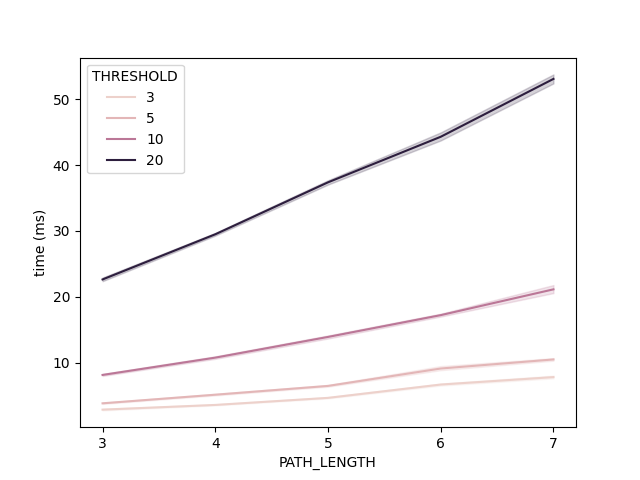
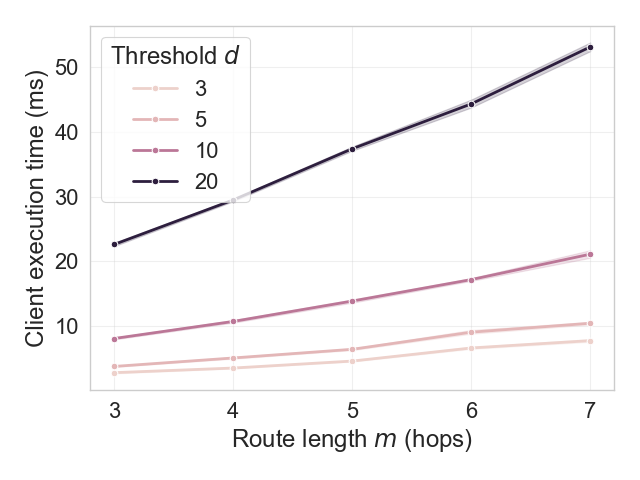
benchmark tables to figures 2

diff --git a/report/Texts/6.Implementation.tex b/report/Texts/6.Implementation.tex
@@ -8,6 +8,7 @@ The benchmark considers a network of 100 nodes, 50 STTPs, and 40 clients, where 
 We vary the path length $m \in \{3,4,5,6,7\}$ and the reconstruction threshold $d \in \{3,5,10,20\}$, resulting in 20 benchmark configurations. 
 Network latency and communication overhead are intentionally excluded so that the measurements isolate the computational cost of the protocol.
 
+\begin{comment}
 \begin{table}[t]
 \centering
 \caption{Client-side execution time (ms) of DSphinx, including packet construction and decentralized route sampling, under varying path length ($m$) and reconstruction threshold ($d$).}
@@ -26,19 +27,37 @@ Network latency and communication overhead are intentionally excluded so that th
 \bottomrule
 \end{tabular}
 \end{table}
+\end{comment}
 
-\todo[inline]{Figure instead of table (and box plot for table 2) + adapt  text accordingly}
+\begin{figure}[t]
+    \centering
+    \begin{subfigure}{0.49\linewidth}
+        \centering
+        \includegraphics[width=\linewidth]{Images/path_length.png}
+    \end{subfigure}
+    \hfill
+    \begin{subfigure}{0.49\linewidth}
+        \centering
+        \includegraphics[width=\linewidth]{Images/threshold.png}
+    \end{subfigure}
+    \caption{Client-side execution time (ms) of DSphinx, including packet construction and decentralized route sampling, under varying path length ($m$) and reconstruction threshold ($d$).}
+    \label{fig:scalability}
+\end{figure}
 
-Table~\ref{tab:scalability} reports the total client-side runtime required for decentralized route sampling and packet construction. 
-Depending on the parameter configuration, the runtime ranges from 2.84 ms to 53.12 ms, compared with approximately 0.5-2 ms for the original Sphinx. 
-As expected, the execution time increases with both the path length and the reconstruction threshold.
+Figure~\ref{fig:scalability} reports the total client-side runtime required for packet construction and decentralized route sampling. 
+Depending on the parameter configuration, the runtime ranges from approximately 3 ms to 50 ms, compared to 0.5--2 ms for the original Sphinx.
+The measured runtimes are consistent with the theoretical complexity of the protocol. 
+In particular, the dominant cost arises from decentralized route sampling, whose threshold reconstruction requires $\mathcal{O}(d \log d)$ operations for each of the $m$ routing hops, yielding an overall client-side complexity of $\mathcal{O}(md \log d)$. 
+This trend is clearly reflected in Figure~\ref{fig:scalability}, where increasing either the path length or the reconstruction threshold results in an approximately linear increase in execution time.
 
-Table~\ref{tab:runtime} summarizes the execution time of the main protocol phases. 
-Client-side execution is dominated by decentralized route sampling, which accounts for approximately 86\% of the total runtime, whereas DSphinx packet construction contributes only about 14\%. 
-On the network side, packet processing remains lightweight, requiring between 0.49 ms and 0.80 ms per packet (approximately 0.15 ms for Sphinx). while the setup phase is executed only once during initialization. 
-Similarly, STTPs introduce negligible computational cost, requiring at most 0.007 ms to process a route-sampling request. 
-Their setup phase (network node and STTP) is expensive but is performed only once.
+Figure~\ref{fig:runtime} summarizes the execution times of the main protocol phases and illustrates their dependence on the path length ($m$) or reconstruction threshold ($d$).
+On the client side, execution is dominated by decentralized route sampling, which accounts for approximately 86\% (approximately 2--50 ms) of the total runtime, whereas DSphinx packet construction contributes only the remaining 14\% (approximately 0.5--4.5 ms). 
+On the network side, packet processing remains lightweight, requiring only 0.5--0.8 ms per packet, compared with approximately 0.15 ms for Sphinx. 
+Although the node setup phase is the most computationally expensive operation (approximately 15--100 ms), it is performed only once during initialization.
+Similarly, STTPs introduce only negligible computational overhead. 
+Processing a route-sampling request requires approximately 0.3--0.7 ms, while the one-time setup phase completes in approximately 0.3 ms.
 
+\begin{comment}
 \begin{table}[t]
 \centering
 \caption{Observed execution times (ms) for DSphinx client, node, and STTP operations, including setup and runtime phases.}
@@ -84,17 +103,21 @@ ccc
 2.08 &\hspace{-1mm}-&\hspace{-1mm}48.90 \hspace{2mm}&
 16.44 &\hspace{-1mm}-&\hspace{-1mm}103.85 \hspace{2mm}&
 0.49 &\hspace{-1mm}-&\hspace{-1mm}0.80 \hspace{2mm}&
-32.16 &\hspace{-1mm}-&\hspace{-1mm}107.55 \hspace{2mm}&
-0.003 &\hspace{-1mm}-&\hspace{-1mm}0.007 \\
+0.32 &\hspace{-1mm}-&\hspace{-1mm}1.07 \hspace{2mm}&
+0.3 &\hspace{-1mm}-&\hspace{-1mm}0.7 \\
 \bottomrule
 \end{tabular}
 \end{table}
+\end{comment}
 
-The measured runtimes are consistent with the theoretical complexity of the protocol. 
-In particular, the dominant cost arises from decentralized route sampling, whose threshold reconstruction requires $\mathcal{O}(d \log d)$ operations for each of the $m$ routing hops, yielding an overall client-side complexity of $\mathcal{O}(md \log d)$. 
-This trend is clearly reflected in Table~\ref{tab:scalability}, where increasing either the path length or the reconstruction threshold results in an approximately linear increase in execution time.
+\begin{figure}[t]
+    \centering
+    \includegraphics[width=\linewidth]{Images/boxplot.png}
+    \caption{Execution times (ms) for DSphinx client, node, and STTP operations under varying path length $m$ and reconstruction threshold $d$.}
+    \label{fig:runtime}
+\end{figure}
 
 Overall, the evaluation highlights the trade-off introduced by DSphinx. 
 Although decentralized route sampling increases the client-side computational cost compared with Sphinx, the absolute overhead remains modest in the context of deployed anonymous communication systems. 
-Recent measurements of the Nym mixnet report end-to-end latencies of approximately 500-800 ms, largely dominated by mixing delays (around 50 ms per hop) and network propagation rather than cryptographic processing \cite{diaz2024reliability}. 
-In comparison, the additional overhead introduced by DSphinx remains below 50 ms for the complete client-side protocol, making it unlikely to dominate end-to-end communication latency in practice.
+Recent measurements of the Nym mixnet report end-to-end latencies of approximately 500--800 ms, largely dominated by mixing delays (around 50 ms per hop) and network propagation rather than cryptographic processing \cite{diaz2024reliability}. 
+In comparison, the additional overhead introduced by DSphinx remains below 50 ms, making it unlikely to dominate end-to-end communication latency in practice.

diff --git a/report/Texts/4.Our_Solution.tex b/report/Texts/4.Our_Solution.tex
@@ -1,6 +1,6 @@
 \section{Protocol Description}\label{sec:scheme}
 
-\todo[inline]{Notation table}
+% \todo[inline]{Notation table}
 
 % Overview
 The proposed decentralized protocol distributes path sampling across a threshold number of semi-trusted third parties (STTPs), in order to mitigate client-side route biasing attacks. 
